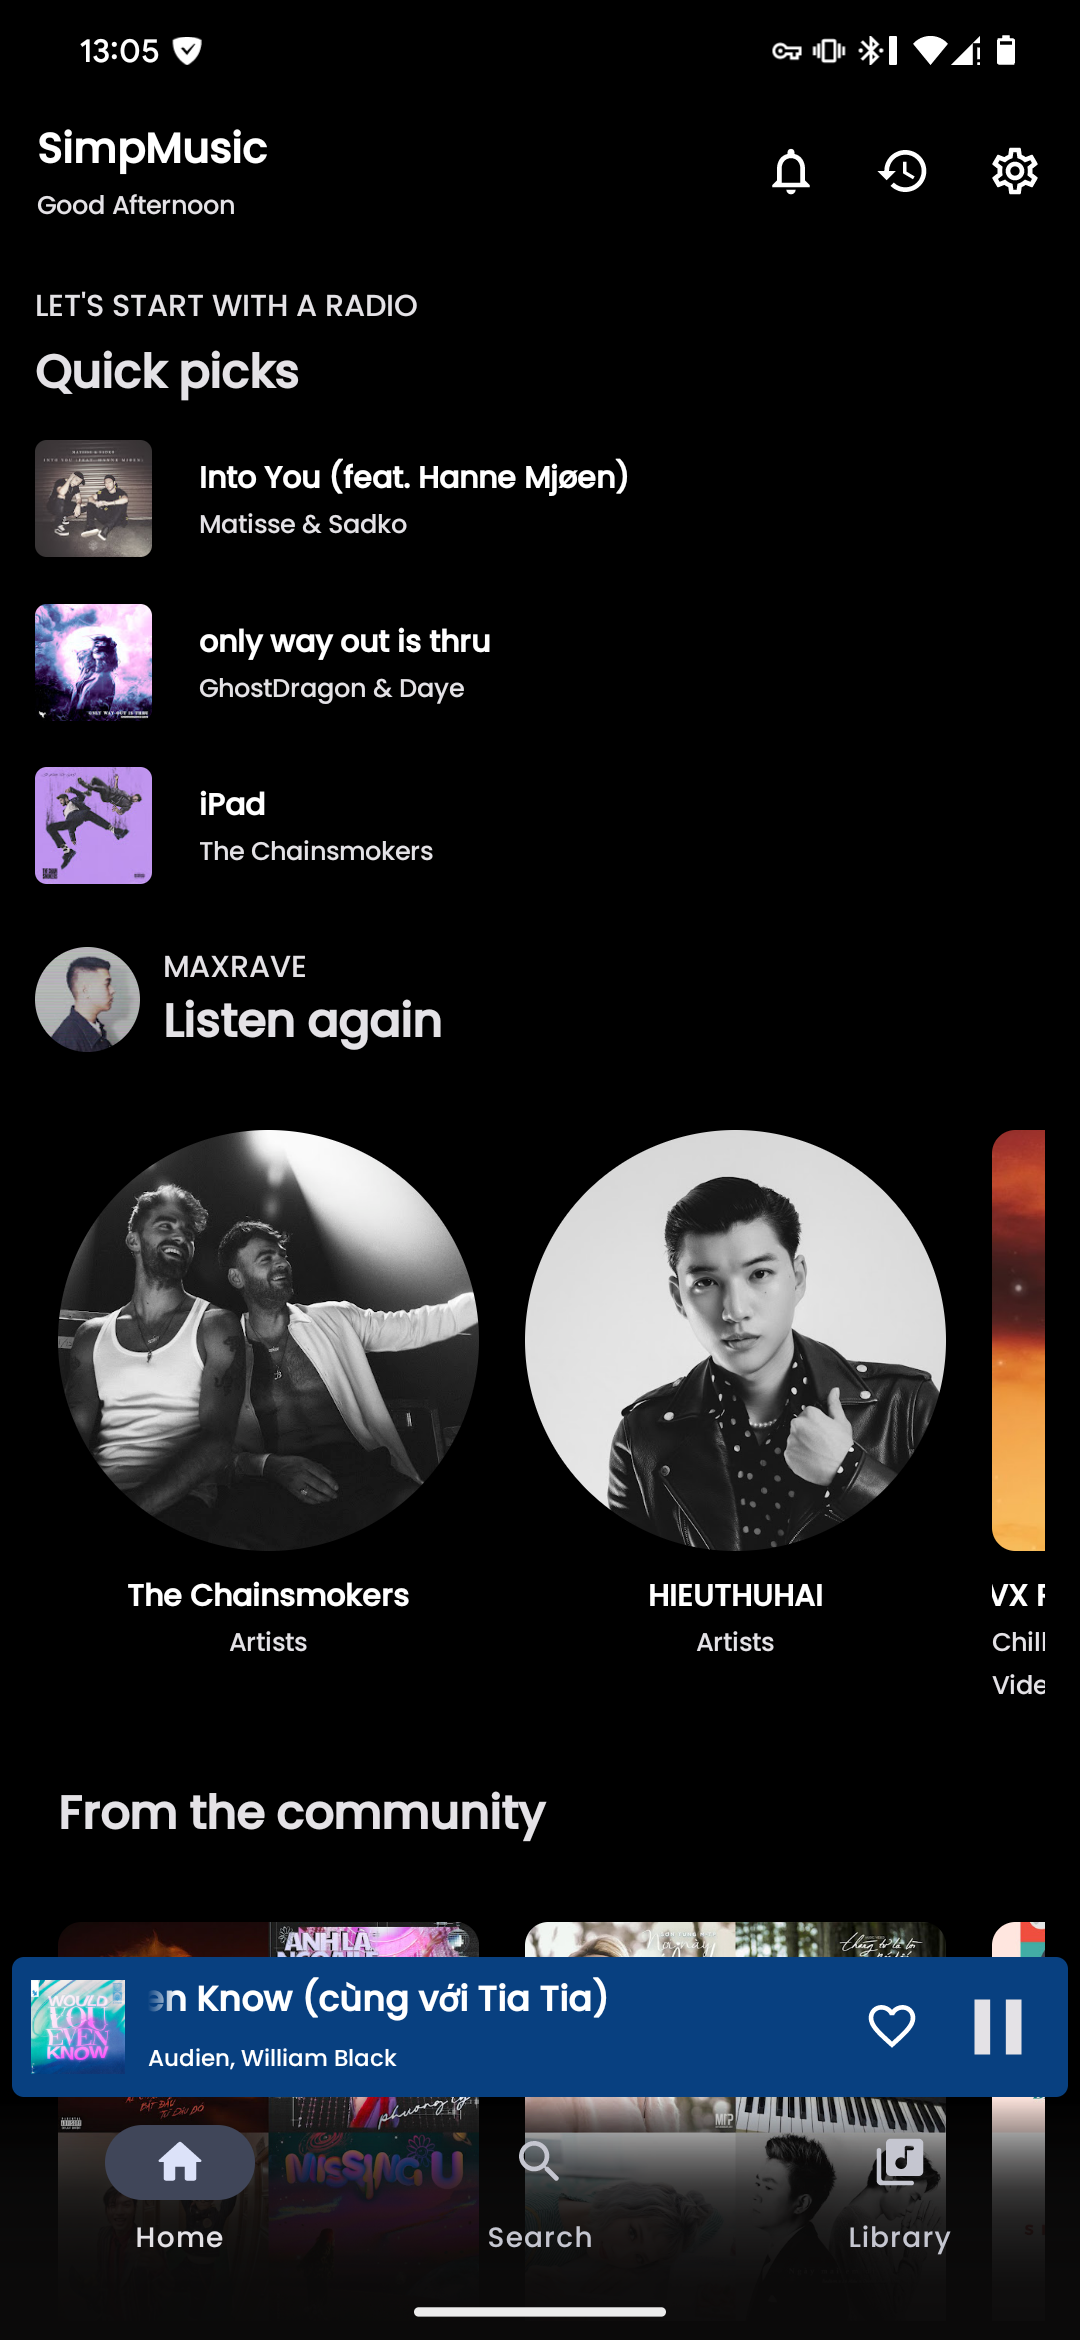
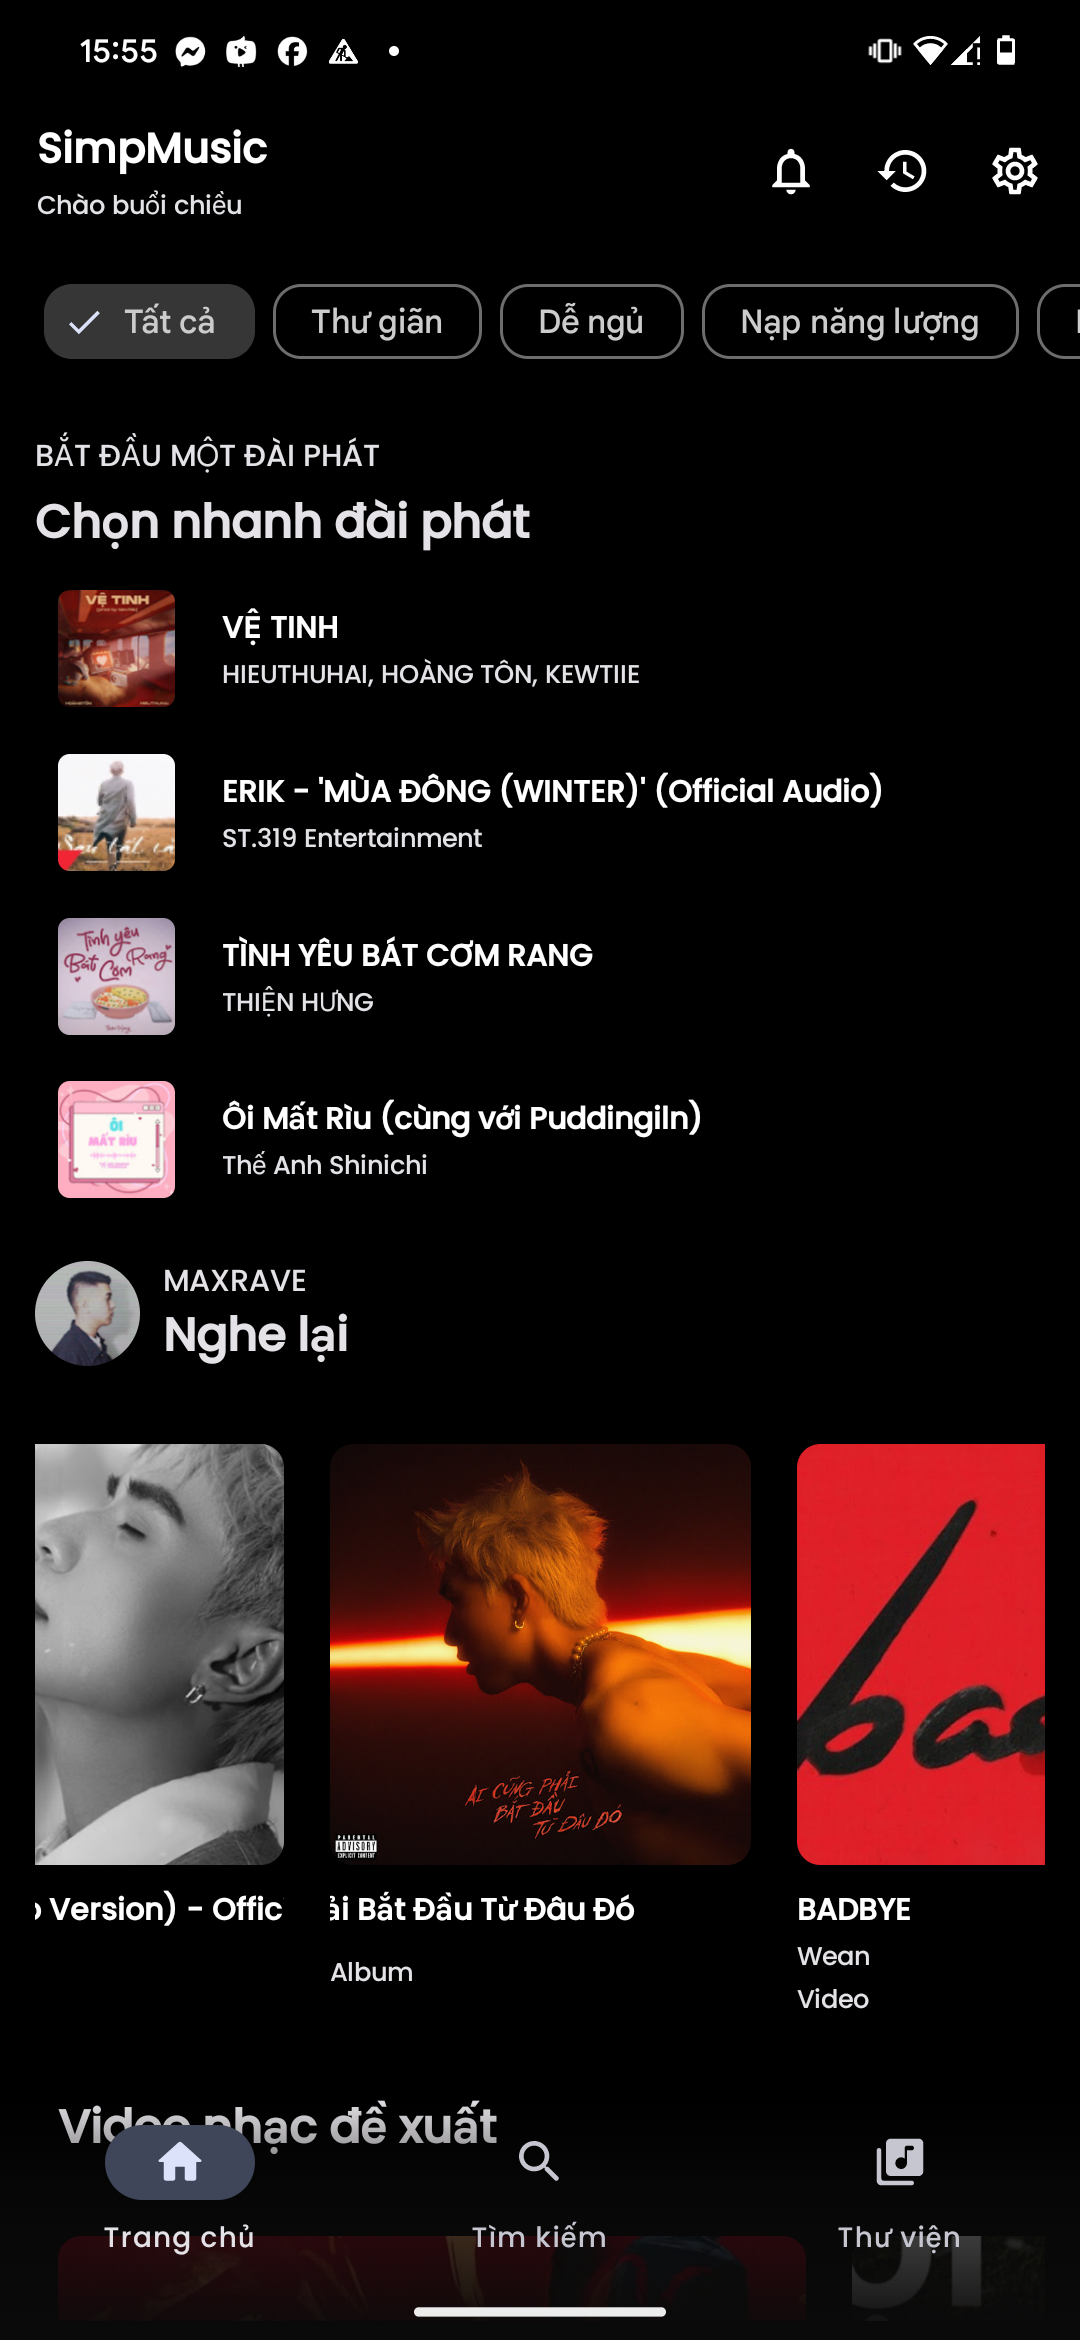
Improve Home Page Filter

diff --git a/app/src/main/java/com/maxrave/simpmusic/viewModel/SharedViewModel.kt b/app/src/main/java/com/maxrave/simpmusic/viewModel/SharedViewModel.kt
@@ -296,7 +296,6 @@ constructor(
                 }
             }
         }
-//        initJob =
         viewModelScope.launch {
             val job1 =
                 launch {
@@ -326,11 +325,22 @@ constructor(
 
                             is SimpleMediaState.Progress -> {
                                 if (mediaState.progress >= 0L && mediaState.progress != _timeline.value.current) {
-                                    _timeline.update {
-                                        it.copy(
-                                            current = mediaState.progress,
-                                            loading = false
-                                        )
+                                    if (_timeline.value.total > 0L) {
+                                        _timeline.update {
+                                            it.copy(
+                                                current = mediaState.progress,
+                                                loading = false
+                                            )
+                                        }
+                                    }
+                                    else {
+                                        _timeline.update {
+                                            it.copy(
+                                                current = mediaState.progress,
+                                                loading = true,
+                                                total = handler.getPlayerDuration()
+                                            )
+                                        }
                                     }
                                 }
                                 else {
@@ -354,7 +364,7 @@ constructor(
                             is SimpleMediaState.Ready -> {
                                 _timeline.update {
                                     it.copy(
-                                        current = simpleMediaServiceHandler!!.getProgress(),
+                                        current = handler.getProgress(),
                                         loading = false,
                                         total = mediaState.duration
                                     )

diff --git a/app/src/main/java/com/maxrave/simpmusic/extension/UIExt.kt b/app/src/main/java/com/maxrave/simpmusic/extension/UIExt.kt
@@ -16,12 +16,14 @@ import androidx.compose.foundation.gestures.animateScrollBy
 import androidx.compose.foundation.lazy.LazyListItemInfo
 import androidx.compose.foundation.lazy.LazyListState
 import androidx.compose.runtime.Composable
+import androidx.compose.runtime.LaunchedEffect
 import androidx.compose.runtime.derivedStateOf
 import androidx.compose.runtime.getValue
 import androidx.compose.runtime.mutableIntStateOf
 import androidx.compose.runtime.mutableStateOf
 import androidx.compose.runtime.remember
 import androidx.compose.runtime.setValue
+import androidx.compose.runtime.snapshotFlow
 import androidx.compose.ui.Modifier
 import androidx.compose.ui.composed
 import androidx.compose.ui.draw.DrawModifier
@@ -358,12 +360,19 @@ fun KeepScreenOn() = AndroidView({ View(it).apply { keepScreenOn = true } })
 fun LazyListState.isScrollingUp(): Boolean {
     var previousIndex by remember(this) { mutableIntStateOf(firstVisibleItemIndex) }
     var previousScrollOffset by remember(this) { mutableIntStateOf(firstVisibleItemScrollOffset) }
+
+    LaunchedEffect(Unit) {
+        snapshotFlow { layoutInfo.totalItemsCount }.collect {
+            Log.w("isScrollingUp", "firstVisibleItemIndex: $firstVisibleItemIndex")
+            previousIndex = firstVisibleItemIndex
+            previousScrollOffset = firstVisibleItemScrollOffset
+        }
+    }
+
     return remember(this) {
         derivedStateOf {
-            if (firstVisibleItemIndex == 0) {
-                return@derivedStateOf true
-            }
-            else {
+            Log.w("isScrollingUp", "offset: $firstVisibleItemScrollOffset")
+            if (firstVisibleItemIndex > 0)  {
                 if (previousIndex != firstVisibleItemIndex) {
                     previousIndex > firstVisibleItemIndex
                 } else {
@@ -372,6 +381,9 @@ fun LazyListState.isScrollingUp(): Boolean {
                     previousIndex = firstVisibleItemIndex
                     previousScrollOffset = firstVisibleItemScrollOffset
                 }
+            }
+            else {
+                true
             }
         }
     }.value

diff --git a/app/src/main/java/com/maxrave/simpmusic/ui/screen/home/HomeScreen.kt b/app/src/main/java/com/maxrave/simpmusic/ui/screen/home/HomeScreen.kt
@@ -121,8 +121,8 @@ fun HomeScreen(
     val moodMomentAndGenre by viewModel.exploreMoodItem.collectAsState()
     val chartLoading by viewModel.loadingChart.collectAsState()
     val loading by viewModel.loading.collectAsState()
-    val accountShow by rememberSaveable {
-        mutableStateOf(homeData.find { it.subtitle == accountInfo?.first } != null)
+    var accountShow by rememberSaveable {
+        mutableStateOf(false)
     }
     val regionChart by viewModel.regionCodeChart.collectAsState()
     val homeRefresh by sharedViewModel.homeRefresh.collectAsState()
@@ -140,10 +140,14 @@ fun HomeScreen(
         }
     if (pullToRefreshState.isRefreshing) {
         viewModel.getHomeItemList()
+        viewModel.getHomeItemList()
         if (!loading) {
             pullToRefreshState.endRefresh()
             sharedViewModel.homeRefreshDone()
         }
+    }
+    LaunchedEffect(key1 = homeData) {
+        accountShow = homeData.find { it.subtitle == accountInfo?.first } == null
     }
     LaunchedEffect(key1 = homeRefresh) {
         Log.w("HomeScreen", "homeRefresh: $homeRefresh")

diff --git a/README.md b/README.md
@@ -23,10 +23,10 @@
 - Analyze your playing data, create custom playlists, and sync with YouTube Music...
 - Spotify Canvas supported
 - Play 1080p video option with subtitle
-- AI suggest songs
+- AI suggestions songs
 - Notification from followed artists
 - Caching and can save data for offline playback
-- Synced lyrics from Musixmatch, Spotify (require login) and YouTube Transcript and translated lyrics (Community translation from Musixmatch)
+- Synced lyrics from Musixmatch, LRCLIB, Spotify (require login) and YouTube Transcript and translated lyrics (Community translation from Musixmatch)
 - Personalize data (*) and multi-YouTube-account support
 - Support SponsorBlock, Return YouTube Dislike
 - Sleep Timer
@@ -43,20 +43,21 @@
 ## Screenshots
 
 <p align="center">  
-  <img src="https://github.com/maxrave-dev/SimpMusic/blob/jetpack_compose/asset/screenshot/2.jpg?raw=true" width="200" />  
-  <img src="https://github.com/maxrave-dev/SimpMusic/blob/jetpack_compose/asset/screenshot/3.jpg?raw=true" width="200" />  
-   <img src="https://github.com/maxrave-dev/SimpMusic/blob/jetpack_compose/asset/screenshot/4.jpg?raw=true" width="200" />  
-   <img src="https://github.com/maxrave-dev/SimpMusic/blob/jetpack_compose/asset/screenshot/5.jpg?raw=true" width="200" />  
+  <img src="https://github.com/maxrave-dev/SimpMusic/blob/jetpack_compose/asset/screenshot/2.png?raw=true" width="200" />  
+  <img src="https://github.com/maxrave-dev/SimpMusic/blob/jetpack_compose/asset/screenshot/3.png?raw=true" width="200" />  
+   <img src="https://github.com/maxrave-dev/SimpMusic/blob/jetpack_compose/asset/screenshot/4.png?raw=true" width="200" />  
+   <img src="https://github.com/maxrave-dev/SimpMusic/blob/jetpack_compose/asset/screenshot/5.png?raw=true" width="200" />  
 </p>  
 <p align="center">  
-  <img src="https://github.com/maxrave-dev/SimpMusic/blob/jetpack_compose/asset/screenshot/6.jpg?raw=true" width="200" />  
-  <img src="https://github.com/maxrave-dev/SimpMusic/blob/jetpack_compose/asset/screenshot/7.jpg?raw=true" width="200" />  
-   <img src="https://github.com/maxrave-dev/SimpMusic/blob/jetpack_compose/asset/screenshot/8.jpg?raw=true" width="200" />  
-   <img src="https://github.com/maxrave-dev/SimpMusic/blob/jetpack_compose/asset/screenshot/9.jpg?raw=true" width="200" />  
+  <img src="https://github.com/maxrave-dev/SimpMusic/blob/jetpack_compose/asset/screenshot/6.png?raw=true" width="200" />  
+  <img src="https://github.com/maxrave-dev/SimpMusic/blob/jetpack_compose/asset/screenshot/7.png?raw=true" width="200" />  
+   <img src="https://github.com/maxrave-dev/SimpMusic/blob/jetpack_compose/asset/screenshot/8.png?raw=true" width="200" />  
+   <img src="https://github.com/maxrave-dev/SimpMusic/blob/jetpack_compose/asset/screenshot/9.png?raw=true" width="200" />  
 </p> 
 <p align="center">  
-  <img src="https://github.com/maxrave-dev/SimpMusic/blob/jetpack_compose/asset/screenshot/10.jpg?raw=true" width="200" />  
-  <img src="https://github.com/maxrave-dev/SimpMusic/blob/jetpack_compose/asset/screenshot/11.jpg?raw=true" width="200" /> 
+  <img src="https://github.com/maxrave-dev/SimpMusic/blob/jetpack_compose/asset/screenshot/10.png?raw=true" width="200" />  
+  <img src="https://github.com/maxrave-dev/SimpMusic/blob/jetpack_compose/asset/screenshot/11.png?raw=true" width="200" /> 
+  <img src="https://github.com/maxrave-dev/SimpMusic/blob/jetpack_compose/asset/screenshot/12.png?raw=true" width="200" /> 
 </p>  
 
 #### More [screenshot](https://photos.app.goo.gl/AbieoXG5ctDrpwzp7) here.
@@ -68,7 +69,7 @@
 - Thanks to [InnerTune](https://github.com/z-huang/InnerTune/) for the idea to get data from YouTube Music. This repo is my inspiration to create this app
 - My app is using [SponsorBlock](https://sponsor.ajay.app/) to skip sponsor in YouTube videos.
 - ReturnYouTubeDislike for getting information on votes
-- Lyrics data from Musixmatch. More information [Musixmatch](https://developer.musixmatch.com/)
+- Lyrics data from Musixmatch and LRCLIB. More information [Musixmatch](https://developer.musixmatch.com/), [LRCLIB](https://lrclib.net/)
 
 ## Privacy
 
@@ -152,7 +153,7 @@ Simply, because I love this name. It's a combination of Simple and Music. But Si
 
 ### [maxrave-dev](https://github.com/maxrave-dev/SimpMusic): Founder/Developer/Designer 
 
-### [owen connor](https://github.com/owencz1998): Discord Server Admin. 
+### [Owen Connor](https://github.com/owencz1998): Discord Server Admin. 
 
 ## Support & Donations
 <div align="left">
@@ -165,7 +166,7 @@ Simply, because I love this name. It's a combination of Simple and Music. But Si
 &nbsp;
 <a href="https://liberapay.com/maxrave/"><img alt="liberapay" height="50"
 src="https://raw.githubusercontent.com/liberapay/liberapay.com/master/www/assets/liberapay/logo-v2_black-on-yellow.svg"></a>
-<div/>
+</div>
 
 ### MOMO or Vietnamese banking
 <p float="left">
